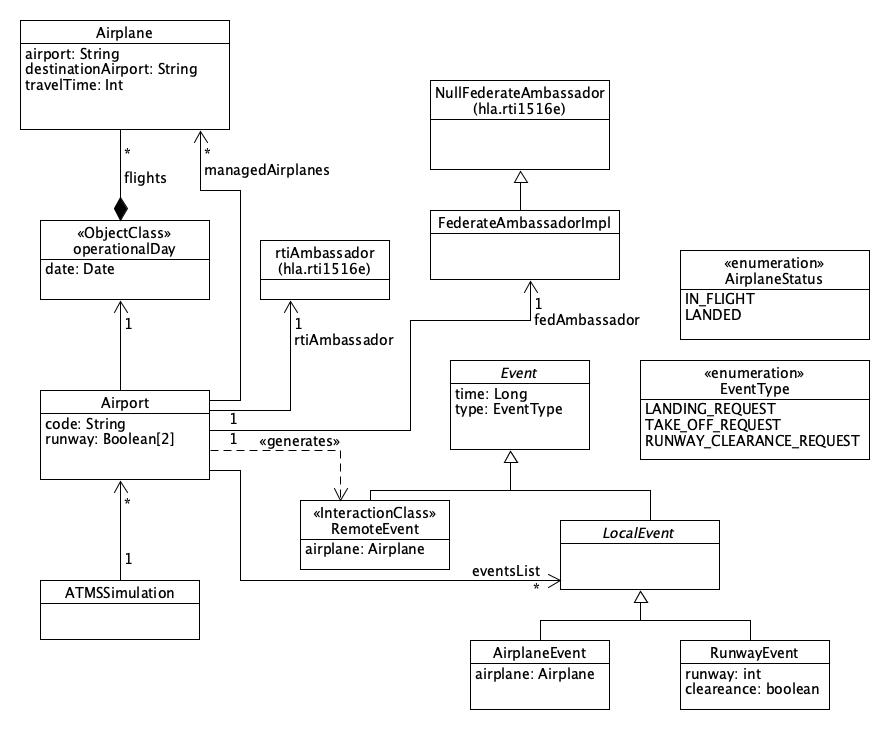
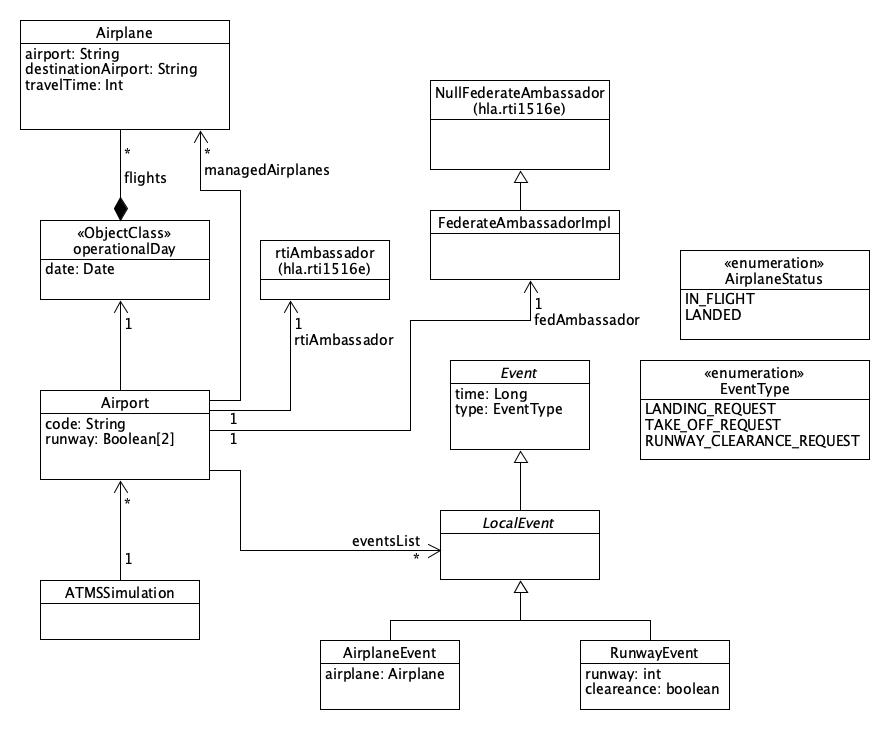
Aggiornato README del branch

diff --git a/README.md b/README.md
@@ -69,16 +69,11 @@ associato (FCO o LIN)
 - *Event* indica un generico evento
 	- *time* indica il timestamp dell'evento
 	- *type* indica il tipo dell'evento
-- _RemoteEvent_ indica un evento che un aeroporto genera per un altro
-	- *airplane* è l'aereo coinvolto nell'evento, che in questo caso sarà un evento di 
-	*landing request*
-- _LocalEvent_ indica un evento locale all'aeroporto
-	- *airplane* è l'aereo coinvolto nell'evento, che in questo caso sarà un evento di 
-	*take off request* o *landing request*, in caso la pista fosse occupata al momento 
-	dell'arrivo dell'aereo
-- _AirplaneEvent_ è l'evento di atterraggio o decollo che riguarda un aereo, il suo 
+- _LocalEvent_ indica un evento locale all'aeroporto, che può essere uno dei seguenti 
+due sottotipi:
+	- _AirplaneEvent_ è l'evento di atterraggio o decollo che riguarda un aereo, il suo 
   _EventType_ può essere quindi _LANDING_REQUEST_ o _TAKE_OFF_REQUEST_ 
- - _RunwayEvent_ è l'evento che cambia lo status (_clearance_) di una pista (_runway_), 
+ 	- _RunwayEvent_ è l'evento che cambia lo status (_clearance_) di una pista (_runway_), 
    il suo _EventType_ è quindi _RUNWAY_CLEARANCE_REQUEST_ 
 - _AirplaneStatus_ è un'enum che contiene tutti i possibili stati in cui può trovarsi un'aereo 
 della simulazione
@@ -152,8 +147,6 @@ Facciamo riferimento alle differenze del __federation design__ rispetto al __fed
 si tratta di un oggetto, nella concezione di oggetto HLA
 - Sono state aggiunte le classi _rtiAmbassador_ e _FederateAmbassadorImpl_ che sono le classi che implementano la 
 logica di comunicazione tra federati in una federazione HLA
-- A _RemoteEvent_ è stato aggiunto lo stereotipo \<\<InteractionClass>> per denotare che si tratta di una 
-interazione tra federati, nella concezione di interazione HLA.
 
 Le restanti classi rimaste invariate verranno implementate nella concezione del classico 
 modello a oggetti.
@@ -173,11 +166,6 @@ accordo con l'**OMT** (Object Model Template), producendo un **FOM** (Federation
 |----|----|----|----|---|---|----|
 |operationalDay|date|DateArray|Static|N|N|Timestamp|
 |operationalDay|flightsScheduled|FlightScheduledRecord|Static|N|P/S|Timestamp|
-
-## Interaction Class
-|InteractionClass|Superclass|Sharing|Order|
-|----|----|---|----|
-|RemoteEvent|HLAinteractionRoot|P/S|Timestamp|
 
 ## Interaction Parameters Table
 |Interaction|Name|Type|Order|
